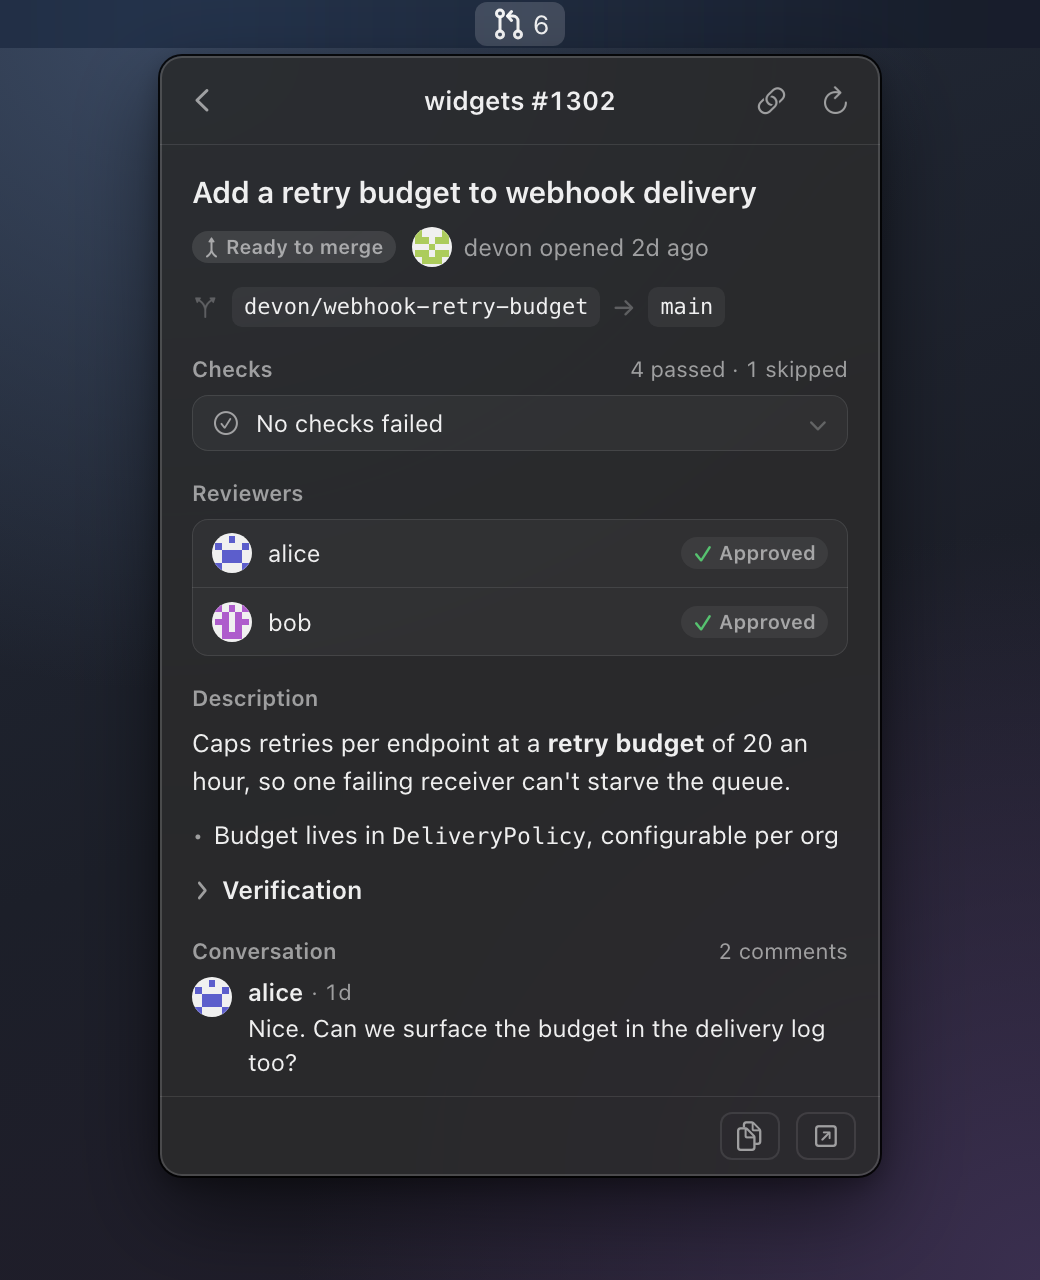
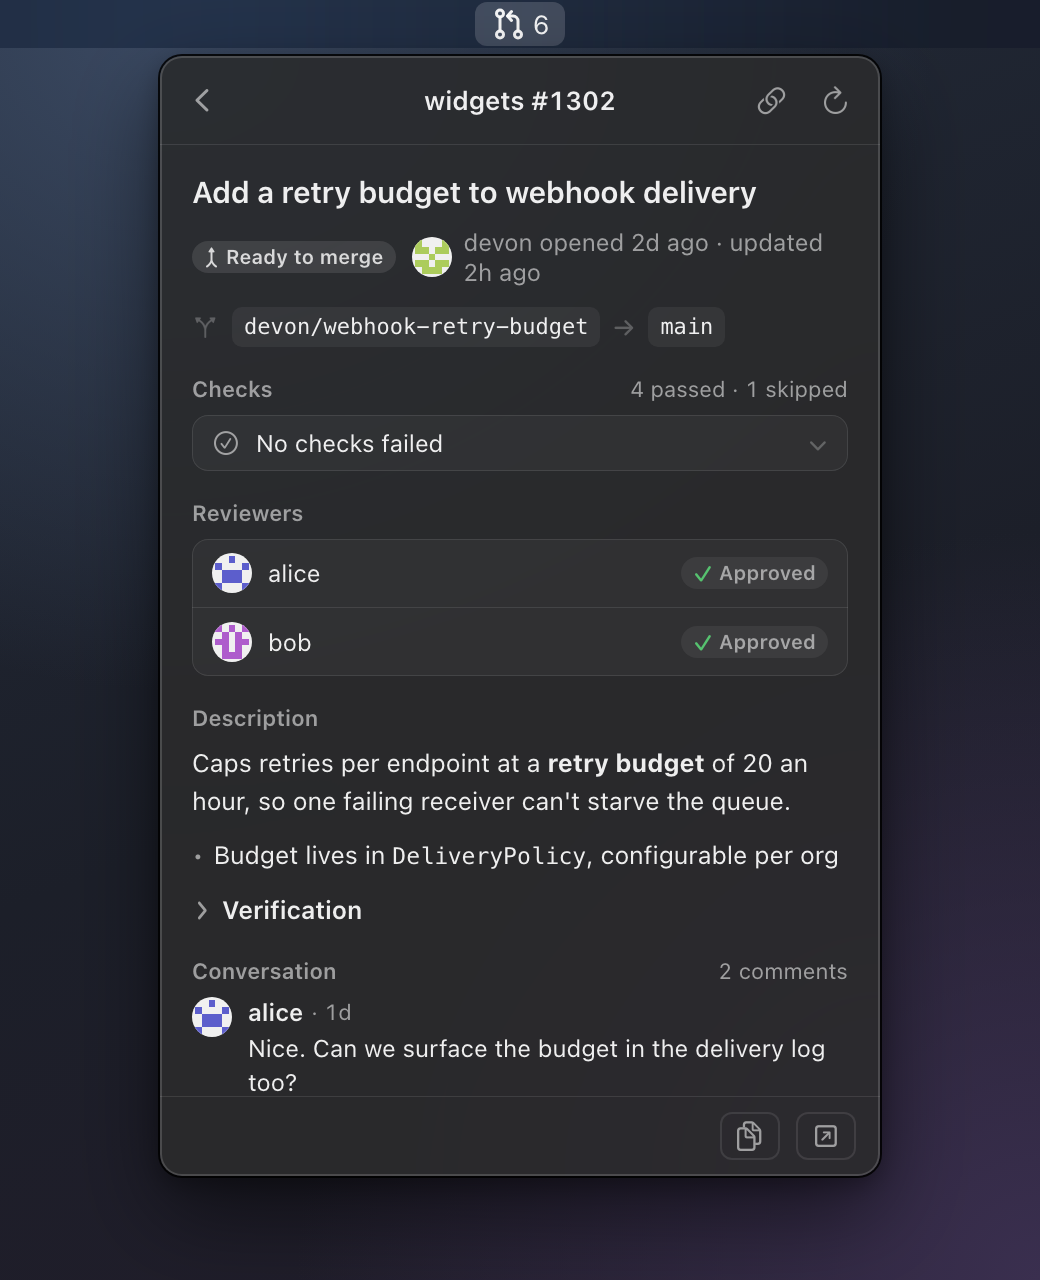
PR page byline names the last update the row shows; stronger text on neutral pills

diff --git a/docs/media/src/detail.js b/docs/media/src/detail.js
@@ -182,13 +182,13 @@
   /** StatePill for an open PR: Draft, Ready to merge (on strongFill) or Open. */
   function prStatePill(pr) {
     if (pr.state === "merged") return pill("Merged", { symbol: "pullbull.pullrequest.merged", fg: "var(--merged-text)", fill: "var(--merged-fill)" });
-    if (pr.readyToMerge) return pill("Ready to merge", { symbol: "arrow.triangle.merge", fg: "var(--secondary-text)", fill: "var(--strong-fill)" });
-    return pill("Open", { symbol: "pullbull.pullrequest", fg: "var(--secondary-text)", fill: "var(--strong-fill)" });
+    if (pr.readyToMerge) return pill("Ready to merge", { symbol: "arrow.triangle.merge", fg: "var(--pill-text)", fill: "var(--strong-fill)" });
+    return pill("Open", { symbol: "pullbull.pullrequest", fg: "var(--pill-text)", fill: "var(--strong-fill)" });
   }
 
   function summaryBlock(title, pillHtml, author, opened, extra = "") {
     return `<div class="detail-summary"><div class="detail-heading">${esc(title)}</div>` +
-      `<div class="hstack" style="gap:8px;margin-top:8px">${pillHtml}<span class="hstack f12 c-secondary" style="gap:6px">${avatar(author, 20)}<span class="nowrap">${esc(author)} opened ${esc(opened)}</span></span></div>${extra}</div>`;
+      `<div class="hstack" style="gap:8px;margin-top:8px">${pillHtml}<span class="hstack f12 c-secondary" style="gap:6px">${avatar(author, 20)}<span style="min-width:0">${esc(author)} opened ${esc(opened)}</span></span></div>${extra}</div>`;
   }
 
   function prDetail(d) {
@@ -228,7 +228,7 @@
     const linked = section("Linked pull requests", String(is.linked.length), card(is.linked.map(linkedPRLine)));
     const description = section("Description", null, card([`<div class="issue-description">${markdown(is.body)}</div>`]));
     const conversation = conversationSection(is.lastComments, is.commentTotal, is.commentTotal - is.lastComments.length);
-    const pillHtml = pill("Open", { symbol: "pullbull.issue", fg: "var(--secondary-text)", fill: "var(--strong-fill)" });
+    const pillHtml = pill("Open", { symbol: "pullbull.issue", fg: "var(--pill-text)", fill: "var(--strong-fill)" });
     const body = summaryBlock(is.title, pillHtml, is.author, is.opened) + board + linked + description + conversation;
     return `<div class="detail">${detailHeader(`${is.repo} #${is.number}`)}<div class="detail-scroll"><div class="detail-content">${body}</div></div>` +
       bottomBar(["rectangle.split.3x1", "arrow.up.right.square"]) + `</div>`;

diff --git a/PullBull/Popover/CompactRowLayout.swift b/PullBull/Popover/CompactRowLayout.swift
@@ -9,13 +9,15 @@ struct CompactRowLayout<Leading: View, Title: View, Badges: View, Trailing: View
     let age: String?
     /// The age's column, so short ages line up down a list; nil sizes it to fit (an ended item's "merged Oct 12").
     let ageWidth: CGFloat?
+    /// What the age measures, on hover and for VoiceOver ("Updated 1h ago"); nil leaves the age bare.
+    let ageHelp: String?
     let leading: Leading
     let title: Title
     let badges: Badges
     let trailing: Trailing
 
     init(
-        repoNumber: RepoNumber, age: String?, ageWidth: CGFloat? = 24,
+        repoNumber: RepoNumber, age: String?, ageWidth: CGFloat? = 24, ageHelp: String? = nil,
         @ViewBuilder leading: () -> Leading,
         @ViewBuilder title: () -> Title,
         @ViewBuilder badges: () -> Badges,
@@ -24,6 +26,7 @@ struct CompactRowLayout<Leading: View, Title: View, Badges: View, Trailing: View
         self.repoNumber = repoNumber
         self.age = age
         self.ageWidth = ageWidth
+        self.ageHelp = ageHelp
         self.leading = leading()
         self.title = title()
         self.badges = badges()
@@ -43,13 +46,17 @@ struct CompactRowLayout<Leading: View, Title: View, Badges: View, Trailing: View
                 repoNumber
                     .fixedSize()
                 if let age {
-                    if let ageWidth {
-                        Text(age)
-                            .frame(width: ageWidth, alignment: .trailing)
-                    } else {
-                        Text(age)
-                            .fixedSize()
+                    Group {
+                        if let ageWidth {
+                            Text(age)
+                                .frame(width: ageWidth, alignment: .trailing)
+                        } else {
+                            Text(age)
+                                .fixedSize()
+                        }
                     }
+                    .help(ageHelp ?? "")
+                    .accessibilityLabel(ageHelp ?? age)
                 }
             }
             .font(.system(size: 11))

diff --git a/PullBull/Popover/PRRow.swift b/PullBull/Popover/PRRow.swift
@@ -160,6 +160,8 @@ struct PRRow: View {
     }
 
     private var age: String { RelativeAge.short(from: pr.updatedAt, to: now) }
+    /// The row's age is the last update; the PR page's byline names it too (`OpenedLine`).
+    private var updatedHelp: String { "Updated \(RelativeAge.ago(pr.updatedAt, now: now))" }
 
     /// One line at a fixed height, so a row is as tall with a capsule as without one. Under pressure the
     /// label chips drop off the end into "+N" first, then (on Review and Team) the author goes (its avatar
@@ -187,8 +189,9 @@ struct PRRow: View {
             }
             Text(age)
                 .fixedSize()
+                .help(updatedHelp)
                 // The avatar, which names a left-out author on hover, is hidden from VoiceOver.
-                .accessibilityLabel(fitting.lean ? "\(pr.author), \(age)" : age)
+                .accessibilityLabel(fitting.lean ? "\(pr.author), \(updatedHelp)" : updatedHelp)
             if let role = marks?.role {
                 MetaDot()
                 Text(role)
@@ -229,7 +232,7 @@ struct PRRow: View {
     private var compactBody: some View {
         CompactRowLayout(
             repoNumber: RepoNumber(key: pr.key, showsRepo: showsRepo, compact: true),
-            age: age, ageWidth: 24
+            age: age, ageWidth: 24, ageHelp: updatedHelp
         ) {
             switch layoutTab {
             case .mine:
@@ -485,7 +488,7 @@ struct ReadyToMergePill: View {
     var fill = Palette.fill
 
     var body: some View {
-        Pill(symbol: "arrow.triangle.merge", text: "Ready to merge", foreground: Palette.secondaryText, fill: fill)
+        Pill(symbol: "arrow.triangle.merge", text: "Ready to merge", foreground: Palette.pillText, fill: fill)
             .accessibilityElement(children: .ignore)
             .accessibilityLabel("Ready to merge")
     }

diff --git a/docs/media/src/popover.css b/docs/media/src/popover.css
@@ -17,6 +17,7 @@
   --red: #ff4245;
   /* Palette */
   --secondary-text: rgba(255, 255, 255, 0.549);
+  --pill-text: rgba(255, 255, 255, 0.8);
   --fill: rgba(255, 255, 255, 0.06);
   --strong-fill: rgba(255, 255, 255, 0.1);
   /* Palette.field is white at 0.07; vibrancy makes it read as about 0.09. */
@@ -68,6 +69,7 @@
   --red: #ff383c;
   /* Palette */
   --secondary-text: rgba(0, 0, 0, 0.6);
+  --pill-text: rgba(0, 0, 0, 0.7);
   --fill: rgba(0, 0, 0, 0.06);
   --strong-fill: rgba(0, 0, 0, 0.1);
   --field: #ffffff;
@@ -319,7 +321,7 @@ body {
 .pill.merged { color: var(--merged-text); background: var(--merged-fill); }
 .pill.closed { color: var(--closed-text); background: var(--closed-fill); }
 /* ReadyToMergePill: gray on Palette.fill; the changes-requested Pill: amber at 0.12 */
-.pill.ready { color: var(--secondary-text); background: var(--fill); }
+.pill.ready { color: var(--pill-text); background: var(--fill); }
 .pill.changes { color: var(--changes-requested); background: var(--changes-fill); }
 
 /* Mine's folded "Recently closed" section */

diff --git a/PullBull/Detail/IssueDetailView.swift b/PullBull/Detail/IssueDetailView.swift
@@ -337,11 +337,11 @@ private struct IssueStatePill: View {
     var body: some View {
         switch issue.glyph {
         case .open:
-            Pill(symbol: Palette.issueGlyph(.open).symbol, text: "Open", foreground: Palette.secondaryText, fill: Palette.strongFill)
+            Pill(symbol: Palette.issueGlyph(.open).symbol, text: "Open", foreground: Palette.pillText, fill: Palette.strongFill)
         case .completed:
             Pill(symbol: Palette.issueGlyph(.completed).symbol, text: "Closed", foreground: Palette.mergedText, fill: Palette.mergedFill)
         case .notPlanned:
-            Pill(symbol: Palette.issueGlyph(.notPlanned).symbol, text: "Closed", foreground: Palette.secondaryText, fill: Palette.fill)
+            Pill(symbol: Palette.issueGlyph(.notPlanned).symbol, text: "Closed", foreground: Palette.pillText, fill: Palette.fill)
         }
     }
 }

diff --git a/PullBull/Style/Palette.swift b/PullBull/Style/Palette.swift
@@ -30,6 +30,12 @@ enum Palette {
         appearance.bestMatch(from: [.aqua, .darkAqua]) == .darkAqua
             ? .secondaryLabelColor : NSColor.black.withAlphaComponent(0.6)
     })
+    /// A neutral pill's text (Open, Ready to merge) on its fill: about 7.5:1 in both appearances, where
+    /// `secondaryText` on a fill drops near 4:1 in dark mode at the pills' 10pt.
+    static let pillText = Color(nsColor: NSColor(name: nil) { appearance in
+        appearance.bestMatch(from: [.aqua, .darkAqua]) == .darkAqua
+            ? NSColor.white.withAlphaComponent(0.8) : NSColor.black.withAlphaComponent(0.7)
+    })
     static let separator = Color(nsColor: .separatorColor)
     static let fill = Color.primary.opacity(0.06)
     /// The skeleton's sweeping highlight: a lighter fill in light mode, a brighter one in dark mode.

diff --git a/PullBull/Detail/PRDetailView.swift b/PullBull/Detail/PRDetailView.swift
@@ -116,8 +116,10 @@ struct PRDetailView: View {
                     StatePill(pr: pr)
                     HStack(spacing: 6) {
                         AvatarView(login: pr.author, url: pr.authorAvatarURL, size: 20)
-                        Text("\(pr.author) opened \(RelativeAge.ago(pr.createdAt, now: now))")
-                            .lineLimit(1)
+                        // Two lines beside a wide pill, so "updated" is never cut off.
+                        Text(OpenedLine.text(author: pr.author, opened: pr.createdAt, updated: pr.updatedAt, now: now))
+                            .lineLimit(2)
+                            .fixedSize(horizontal: false, vertical: true)
                     }
                     .font(.system(size: 12))
                     .foregroundStyle(.secondary)

diff --git a/Packages/PullBullKit/Tests/PullBullKitTests/OpenedLineTests.swift b/Packages/PullBullKit/Tests/PullBullKitTests/OpenedLineTests.swift
@@ -1,0 +1,19 @@
+import Foundation
+import Testing
+@testable import PullBullKit
+
+@Suite struct OpenedLineTests {
+    let t0 = Date(timeIntervalSince1970: 1_800_000_000)
+
+    @Test func namesTheLastUpdateTheRowShows() {
+        let now = t0 + 4 * 86_400
+        #expect(OpenedLine.text(author: "rado", opened: t0, updated: now - 3600, now: now)
+            == "rado opened 4d ago · updated 1h ago")
+    }
+
+    @Test func leavesOutAnUpdateThatSaysTheSame() {
+        let now = t0 + 4.5 * 86_400
+        #expect(OpenedLine.text(author: "rado", opened: t0, updated: t0 + 600, now: now) == "rado opened 4d ago")
+        #expect(OpenedLine.text(author: "rado", opened: t0, updated: t0 + 20, now: t0 + 30) == "rado opened just now")
+    }
+}

diff --git a/Packages/PullBullKit/Sources/PullBullKit/Rules/OpenedLine.swift b/Packages/PullBullKit/Sources/PullBullKit/Rules/OpenedLine.swift
@@ -1,0 +1,12 @@
+import Foundation
+
+/// A PR page's byline: "rado opened 4d ago · updated 1h ago". The update is the age a PR row shows, so
+/// the number on the row is on the page too; it's left out when it would read the same as the opening.
+public enum OpenedLine {
+    public static func text(author: String, opened: Date, updated: Date, now: Date) -> String {
+        let openedAgo = RelativeAge.ago(opened, now: now)
+        let updatedAgo = RelativeAge.ago(updated, now: now)
+        let line = "\(author) opened \(openedAgo)"
+        return updatedAgo == openedAgo ? line : "\(line) · updated \(updatedAgo)"
+    }
+}

diff --git a/PullBull/Detail/DetailComponents.swift b/PullBull/Detail/DetailComponents.swift
@@ -126,7 +126,7 @@ struct StatePill: View {
             } else if ReviewRules.isReadyToMerge(pr) {
                 ReadyToMergePill(fill: Palette.strongFill)
             } else {
-                Pill(symbol: Palette.prGlyph(.open), text: "Open", foreground: Palette.secondaryText, fill: Palette.strongFill)
+                Pill(symbol: Palette.prGlyph(.open), text: "Open", foreground: Palette.pillText, fill: Palette.strongFill)
             }
         }
     }

diff --git a/PullBull/Ask/AskView.swift b/PullBull/Ask/AskView.swift
@@ -202,7 +202,7 @@ private struct AskRow: View {
         case "merged": EndedPill(merged: true)
         case "closed": EndedPill(merged: false)
         case "draft": DraftPill()
-        default: Pill(symbol: nil, text: "Open", foreground: Palette.secondaryText, fill: Palette.fill)
+        default: Pill(symbol: nil, text: "Open", foreground: Palette.pillText, fill: Palette.fill)
         }
     }
 

diff --git a/docs/media/src/data/pr-detail.js b/docs/media/src/data/pr-detail.js
@@ -9,7 +9,7 @@ window.SCENES["pr-detail"] = {
   pr: {
     repo: "widgets", number: 1302, state: "open", readyToMerge: true,
     title: "Add a retry budget to webhook delivery",
-    author: "devon", opened: "2d ago",
+    author: "devon", opened: "2d ago · updated 2h ago",
     headRef: "devon/webhook-retry-budget", baseRef: "main",
     checksExpanded: false,
     checks: [
